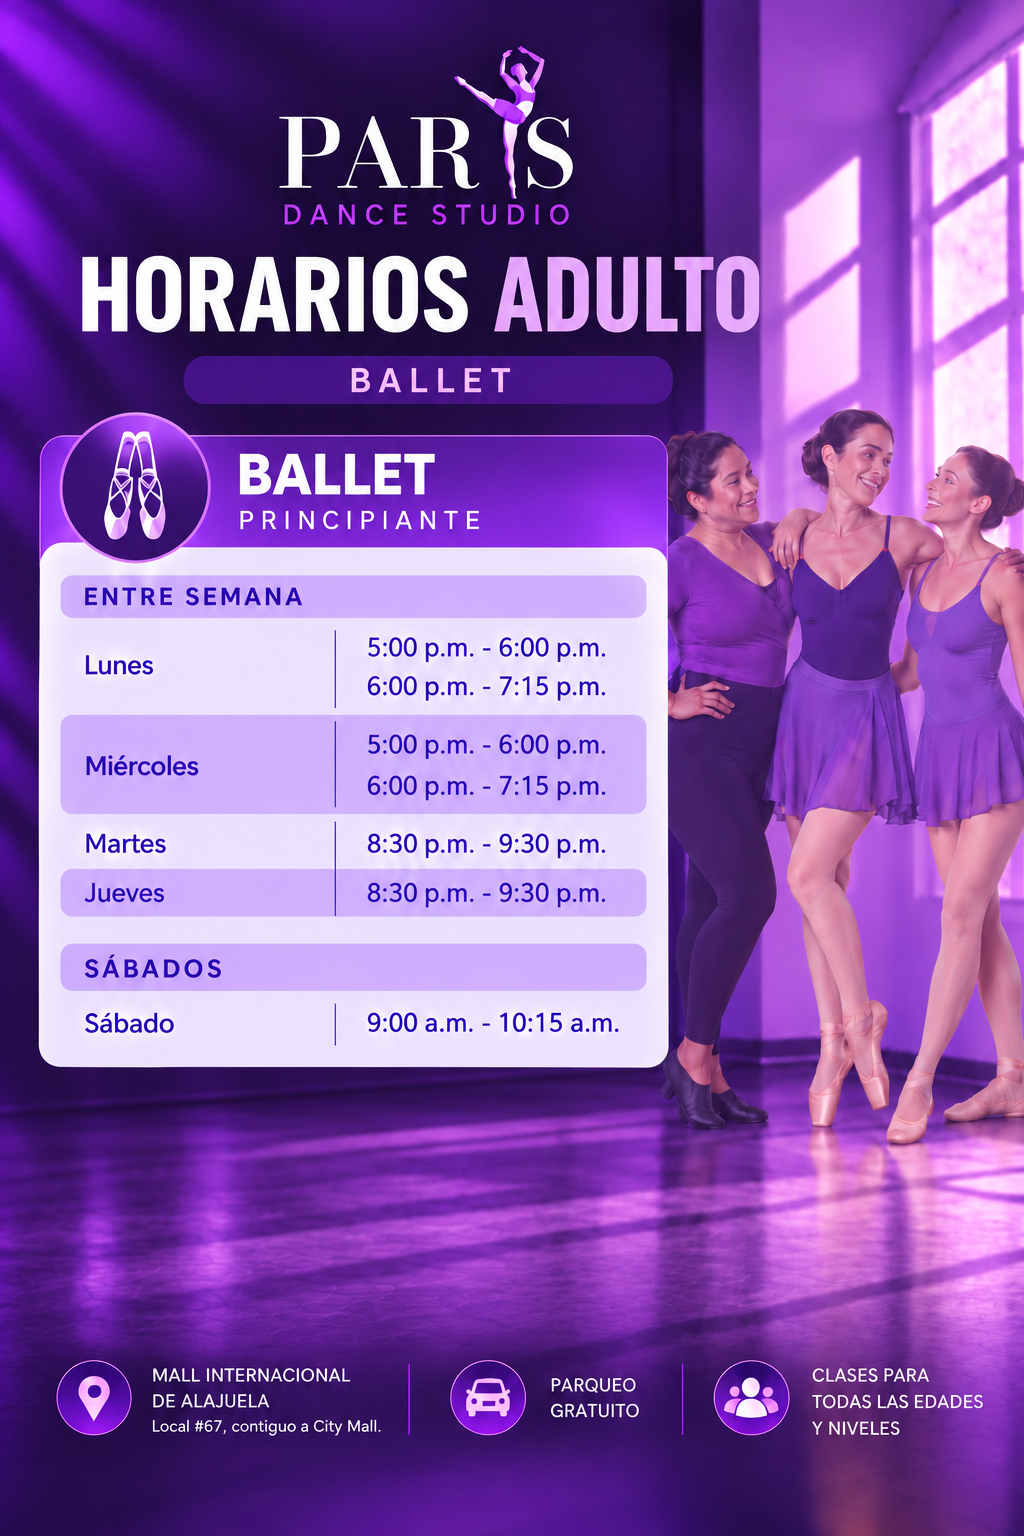
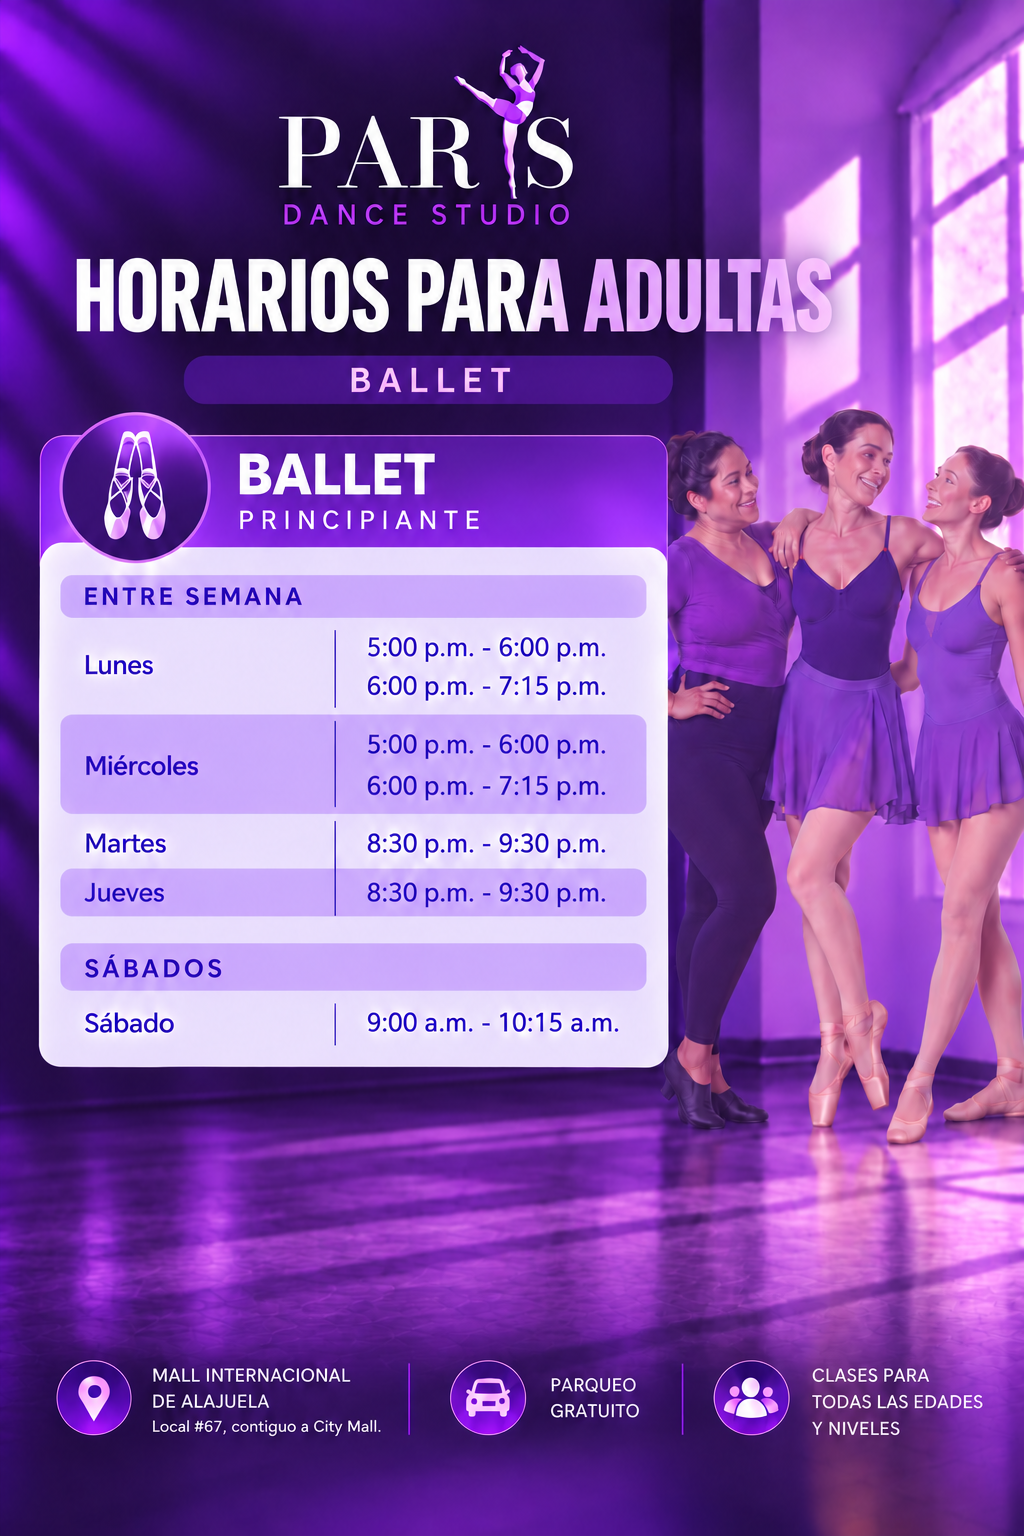
cambio de imagenes de horarios

diff --git a/index.html b/index.html
@@ -365,20 +365,14 @@
         </div>
       </div>
 
-      <!-- Ballet Principiante Intermedio -->
+
+      <!-- Ballet Niña -->
       <div class="info-item plan-card">
         <div class="plan-image plan-image--poster">
-          <img src="img/horario_ballet_principiante_intermedio.png" alt="Horario Ballet Principiante Intermedio" loading="lazy">
+    
+          <img src="img/horario_niñas.png" alt="Horario Ballet Principiante" loading="lazy">
         </div>
       </div>
-
-      <!-- Ballet Avanzado -->
-      <div class="info-item plan-card">
-        <div class="plan-image plan-image--poster">
-          <img src="img/horario_ballett_avanzado.png" alt="Horario Ballet Avanzado" loading="lazy">
-        </div>
-      </div>
-
     </div>
 
     <!-- Separador elegante -->
